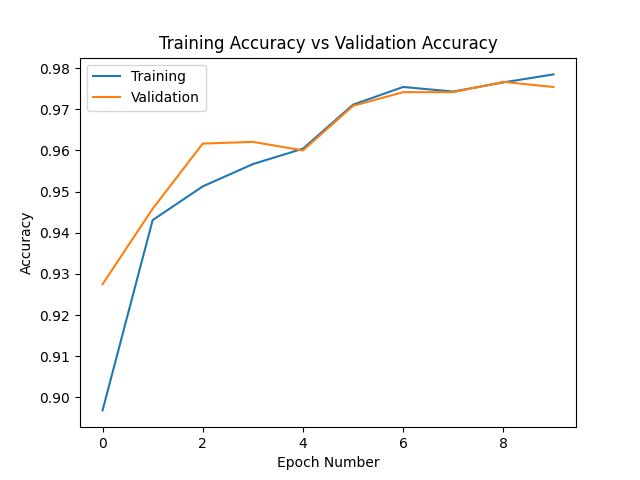
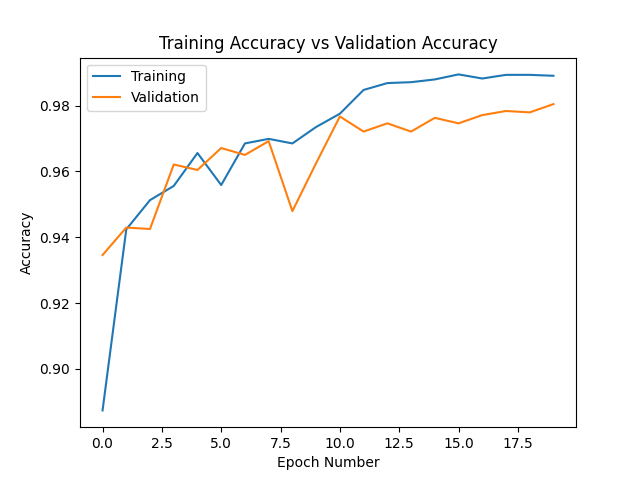
add last version

diff --git a/test.py b/test.py
@@ -15,7 +15,7 @@ from utils import load_checkpoint, save_loss_fig, save_accuracy_fig
 
 device = torch.device("cuda" if torch.cuda.is_available() else "cpu")
 mean, std = [0.6583, 0.4580, 0.0877], [0.2412, 0.2313, 0.2387]
-BATCH_SIZE, LEARNING_RATE, NUM_EPOCH, WEIGHT_DECAY = 16, 1e-4, 20, 1e-5
+BATCH_SIZE, LEARNING_RATE, NUM_EPOCH, WEIGHT_DECAY = 32, 1e-4, 20, 1e-5
 
 models = {
     'resnet18': torchvision.models.resnet18(),
@@ -50,7 +50,8 @@ def get_model(model_name):
 model = get_model("resnet18")
 criterion = torch.nn.CrossEntropyLoss()
 optimizer = torch.optim.Adam(model.parameters(), lr=LEARNING_RATE, weight_decay=WEIGHT_DECAY)
-scheduler = lr_scheduler.StepLR(optimizer, step_size=5, gamma=0.1)
+scheduler = lr_scheduler.ReduceLROnPlateau(optimizer, 'min', patience=1)
+#scheduler = lr_scheduler.StepLR(optimizer, step_size=5, gamma=0.1)
 #optimizer = torch.optim.SGD(model.parameters(), lr=LEARNING_RATE, weight_decay=WEIGHT_DECAY)
 
 train_transforms = transforms.Compose([transforms.Resize((224,224)),transforms.ToTensor(),transforms.Normalize(mean=mean,std=std)])
@@ -84,7 +85,7 @@ def train(model):
     training_losses, val_losses, training_accuracies, validation_accuracies = [], [], [], []
 
     for epoch in range(NUM_EPOCH):
-        epoch_train_loss, correct, total = 0,0,0
+        epoch_train_loss, correct, train_total = 0,0,0
 
         model.train()
         for X, y in train_loader:
@@ -98,11 +99,11 @@ def train(model):
             optimizer.step()
 
             _, maximum = torch.max(result.data, 1)
-            total += y.size(0)
+            train_total += y.size(0)
             correct += (maximum == y).sum().item()
         
-        training_accuracy = correct / total
-        training_losses.append(epoch_train_loss / total)
+        training_accuracy = correct / train_total
+        training_losses.append(epoch_train_loss / train_total)
         training_accuracies.append(training_accuracy)
 
         epoch_val_loss, correct, total = 0,0,0
@@ -122,7 +123,7 @@ def train(model):
         val_losses.append(epoch_val_loss / total)
         accuracy = correct/total
         validation_accuracies.append(accuracy)
-        print(f'EPOCH:{epoch}, Training Loss:{epoch_train_loss / total}, Validation Loss:{epoch_val_loss / total}, Training Accuracy: {training_accuracy}, Validation Accuracy: {accuracy}')
+        print(f'EPOCH:{epoch}, Training Loss:{epoch_train_loss / train_total}, Validation Loss:{epoch_val_loss / total}, Training Accuracy: {training_accuracy}, Validation Accuracy: {accuracy}')
         
         if min(val_losses) == val_losses[-1]:
             best_epoch = epoch
@@ -131,14 +132,14 @@ def train(model):
             torch.save(checkpoint, "models/" + f'{epoch}.pth')
             print("Model saved")
 
-        scheduler.step()
+        scheduler.step(epoch_val_loss)
         print(optimizer.state_dict()['param_groups'][0]['lr'])
 
     save_loss_fig(NUM_EPOCH, training_losses, val_losses)
     save_accuracy_fig(NUM_EPOCH, training_accuracies, validation_accuracies)
 
 start_time = time.time()
-#train(model)
+train(model)
 end_time = time.time()
 duration = end_time - start_time
 print(f'Time it takes to train {duration}')
@@ -219,8 +220,8 @@ def get_prediction(image_tensor):
     _, predicted = torch.max(outputs.data, 1)
     return predicted
 
-tensor = transform_image()
-prediction = get_prediction(tensor)
-print(prediction.item())
+#tensor = transform_image()
+#prediction = get_prediction(tensor)
+#print(prediction.item())
 
 # test_video(loaded_model)
